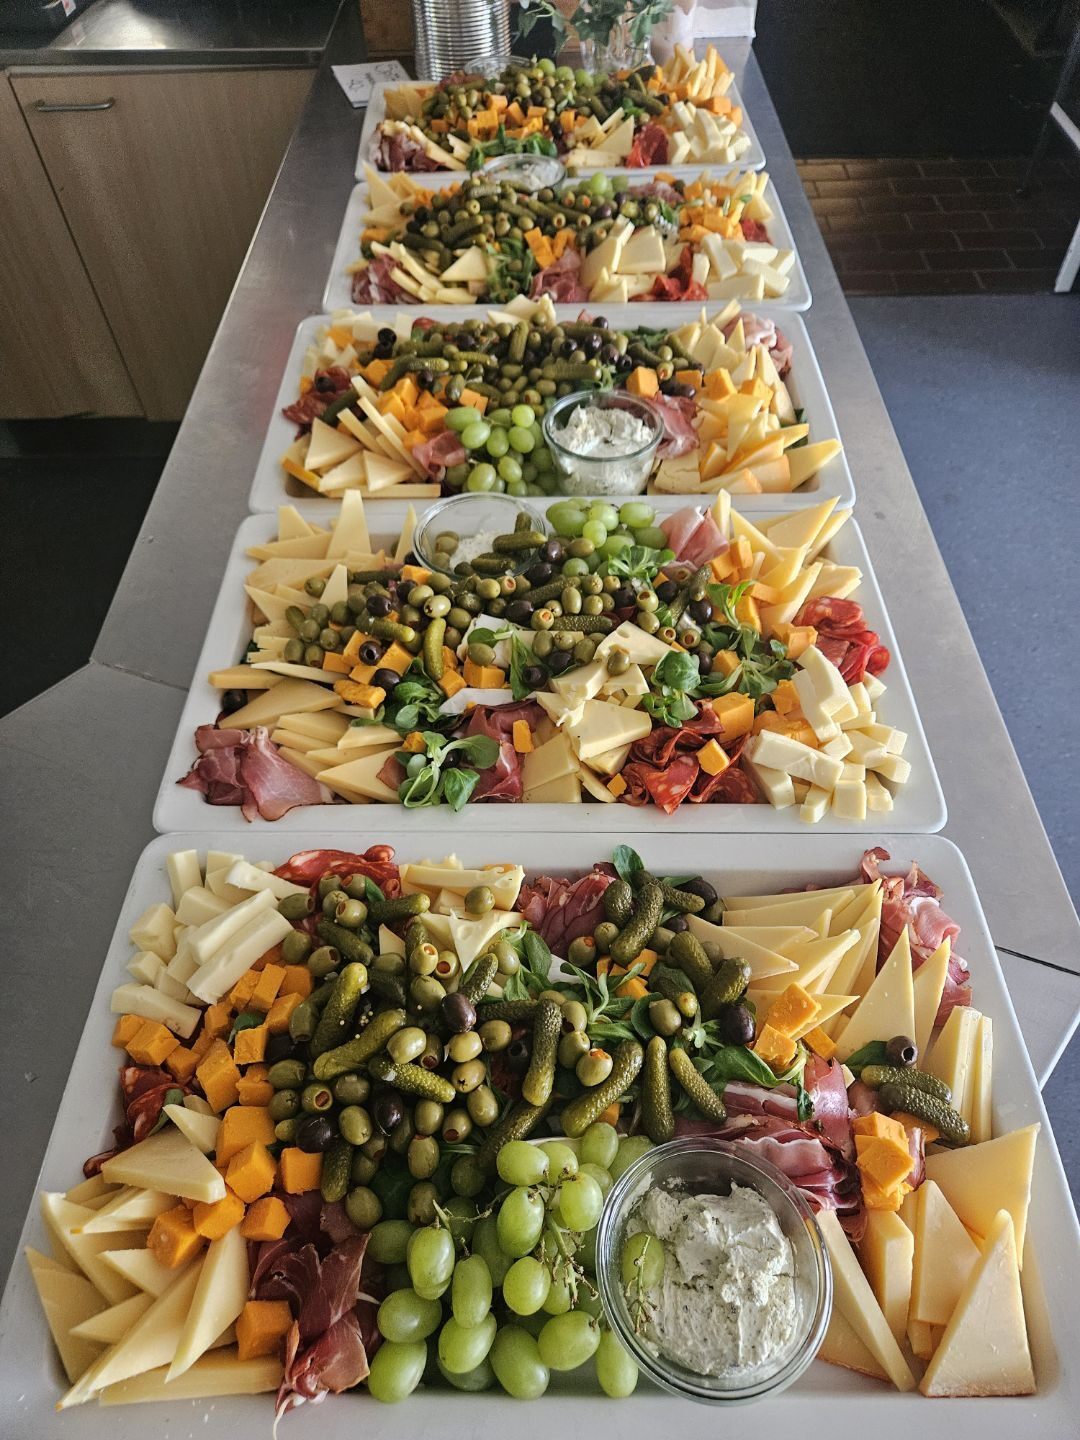
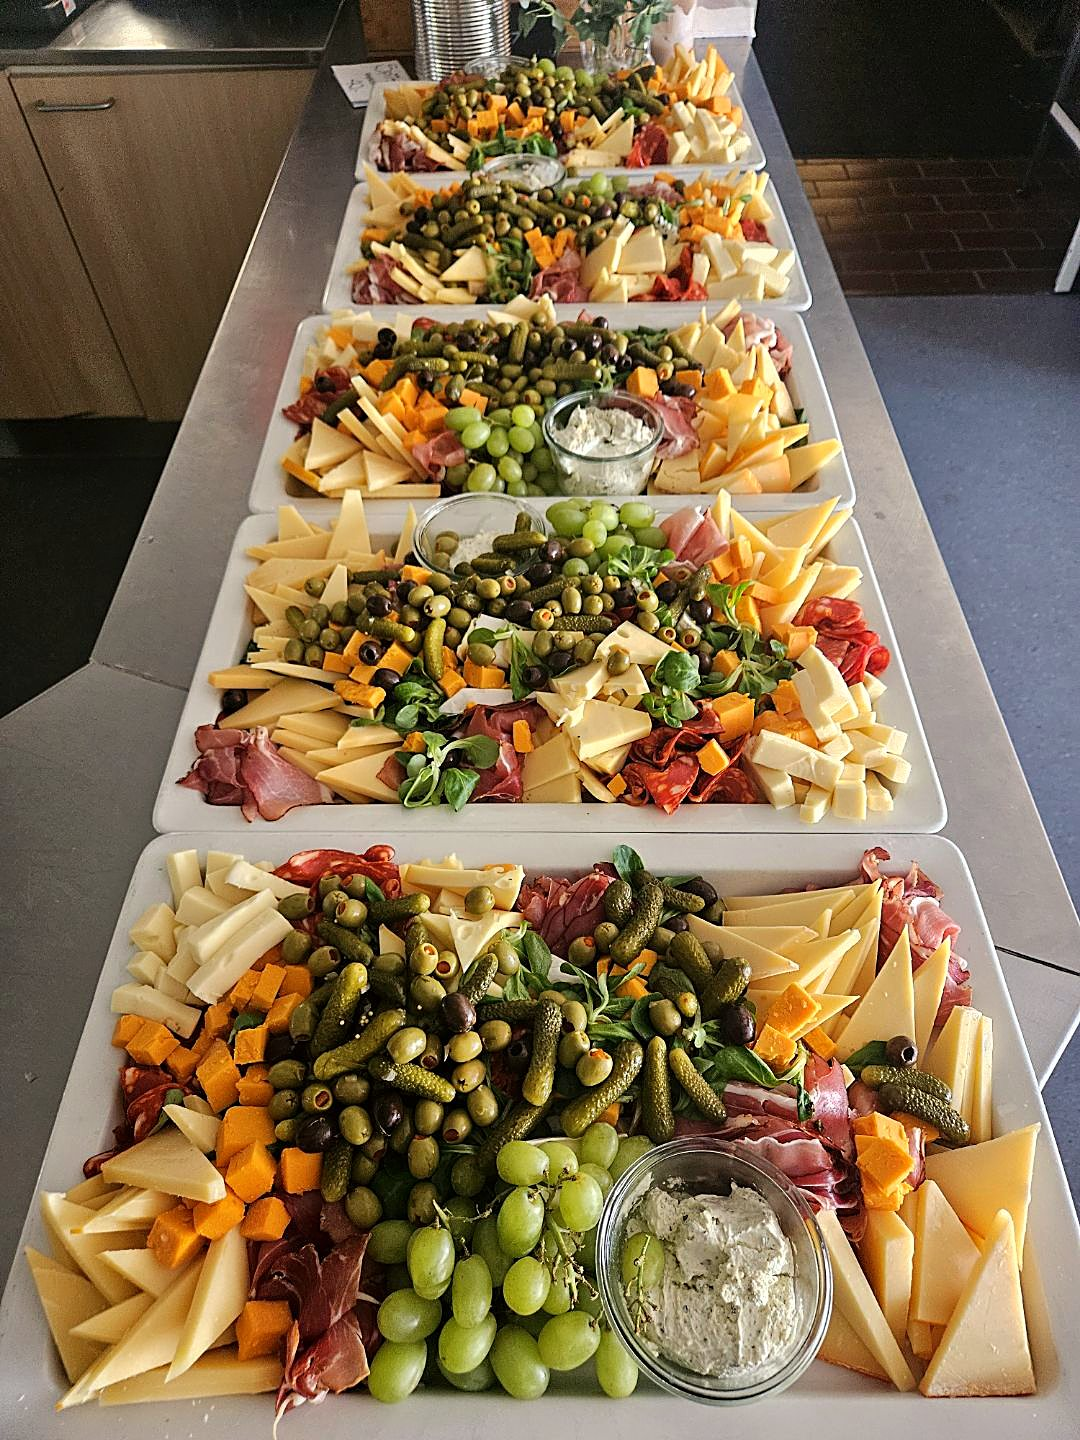
/ny/: skarpere selskabsbilleder og orange tekst, der kan læses
- Selskab & catering: burgerbilledet er gjort skarpt med AI (Higgsfield,
  2x større), de tre andre har fået varmere farve, mere kontrast og
  skarphed. Kun /ny/ bruger de nye billeder.
- Orange tekst på den lyse baggrund er gjort mørkere brændt orange og
  lidt kraftigere overalt (små overskrifter, Dagens ret-mærker, priser i
  ugemenuen, Cava-pris, Google-link, Kun hverdage).

Claude-Session: https://claude.ai/code/session_019Xgq6nyUB8EVWQAq5k8fum

diff --git a/ny/menu.html b/ny/menu.html
@@ -3,7 +3,7 @@
 <head>
   <meta charset="UTF-8" />
   <meta name="viewport" content="width=device-width, initial-scale=1.0, viewport-fit=cover" />
-  <meta name="ny-version" content="20261022080526" />
+  <meta name="ny-version" content="20261022081049" />
   <!-- a browser that kept an older copy of this page fetches the new one once -->
   <script>(function(){try{var m=document.querySelector('meta[name="ny-version"]').content;fetch('ny-version.txt?t='+Date.now(),{cache:'no-store'}).then(function(r){return r.ok?r.text():''}).then(function(v){v=(v||'').trim();if(!v||v===m||sessionStorage.getItem('nyv'+v))return;sessionStorage.setItem('nyv'+v,'1');fetch(location.pathname,{cache:'reload'}).then(function(){location.reload()});}).catch(function(){});}catch(e){}})();</script>
   <meta name="robots" content="noindex, nofollow" />
@@ -68,6 +68,7 @@
   <link rel="stylesheet" href="spiis-signatur.css?v=6" />
   <link rel="stylesheet" href="spiis-lys.css?v=7" />
   <link rel="stylesheet" href="spiis-glas.css?v=6" />
+  <link rel="stylesheet" href="spiis-tydelig.css?v=1" />
 </head>
 <body class="menupage" data-ny="1">
   <div class="ny-bg" aria-hidden="true"><i class="b1"></i><i class="b2"></i><i class="b3"></i></div>

diff --git a/ny/index.html b/ny/index.html
@@ -3,7 +3,7 @@
 <head>
   <meta charset="UTF-8" />
   <meta name="viewport" content="width=device-width, initial-scale=1.0, viewport-fit=cover" />
-  <meta name="ny-version" content="20261022080526" />
+  <meta name="ny-version" content="20261022081049" />
   <!-- a browser that kept an older copy of this page fetches the new one once -->
   <script>(function(){try{var m=document.querySelector('meta[name="ny-version"]').content;fetch('ny-version.txt?t='+Date.now(),{cache:'no-store'}).then(function(r){return r.ok?r.text():''}).then(function(v){v=(v||'').trim();if(!v||v===m||sessionStorage.getItem('nyv'+v))return;sessionStorage.setItem('nyv'+v,'1');fetch(location.pathname,{cache:'reload'}).then(function(){location.reload()});}).catch(function(){});}catch(e){}})();</script>
   <meta name="robots" content="noindex, nofollow" />
@@ -96,6 +96,7 @@
   <link rel="stylesheet" href="spiis-cafe-ned.css?v=2" />
   <link rel="stylesheet" href="spiis-live.css?v=5" />
   <link rel="stylesheet" href="spiis-ribbon.css?v=2" />
+  <link rel="stylesheet" href="spiis-tydelig.css?v=1" />
 </head>
 <body data-ny="1">
   <div class="ny-bg" aria-hidden="true"><i class="b1"></i><i class="b2"></i><i class="b3"></i></div>

diff --git a/ny/spiis-tydelig.css b/ny/spiis-tydelig.css
@@ -1,0 +1,11 @@
+/* Spiis /ny/: orange words that read. On the light stone the warm orange
+   is deepened to a burnt orange and set a little heavier, so labels, links
+   and small notes pass a clear contrast. Loaded last. */
+:root{ --warm-text:#8E3A0F; }
+body[data-ny] :is(#menukort, #tapas, #om, #selskaber, #kontakt, #bestil, #dagensret, #nyheder){ --warm-text:#8E3A0F; }
+/* the light orange (#F28A3E) on stone or cream: deepened */
+body[data-ny] .menuline__badge:not(.menuline__badge--out):not(.menuline__badge--few), body[data-ny] .menucat__badge{
+  color:#8E3A0F !important; background:rgba(226,112,46,.14) !important; box-shadow:inset 0 0 0 1px rgba(226,112,46,.28) !important; font-weight:600 !important; }
+body[data-ny] .ugerow__pris, body[data-ny] .tapas__cavatxt b, body[data-ny] .selsk__starstxt em{ color:#8E3A0F !important; font-weight:600; }
+body[data-ny] .menuline__badge--out{ color:#9A2A1F !important; background:rgba(255,69,58,.12) !important; }
+body[data-ny] .eyebrow{ font-weight:700 !important; }

diff --git a/ny/admin.html b/ny/admin.html
@@ -3,7 +3,7 @@
 <head>
   <meta charset="UTF-8" />
   <meta name="viewport" content="width=device-width, initial-scale=1.0, viewport-fit=cover" />
-  <meta name="ny-version" content="20261022080526" />
+  <meta name="ny-version" content="20261022081049" />
   <!-- a browser that kept an older copy of this page fetches the new one once -->
   <script>(function(){try{var m=document.querySelector('meta[name="ny-version"]').content;fetch('ny-version.txt?t='+Date.now(),{cache:'no-store'}).then(function(r){return r.ok?r.text():''}).then(function(v){v=(v||'').trim();if(!v||v===m||sessionStorage.getItem('nyv'+v))return;sessionStorage.setItem('nyv'+v,'1');fetch(location.pathname,{cache:'reload'}).then(function(){location.reload()});}).catch(function(){});}catch(e){}})();</script>
   <title>Spiis Admin – Dashboard</title>
